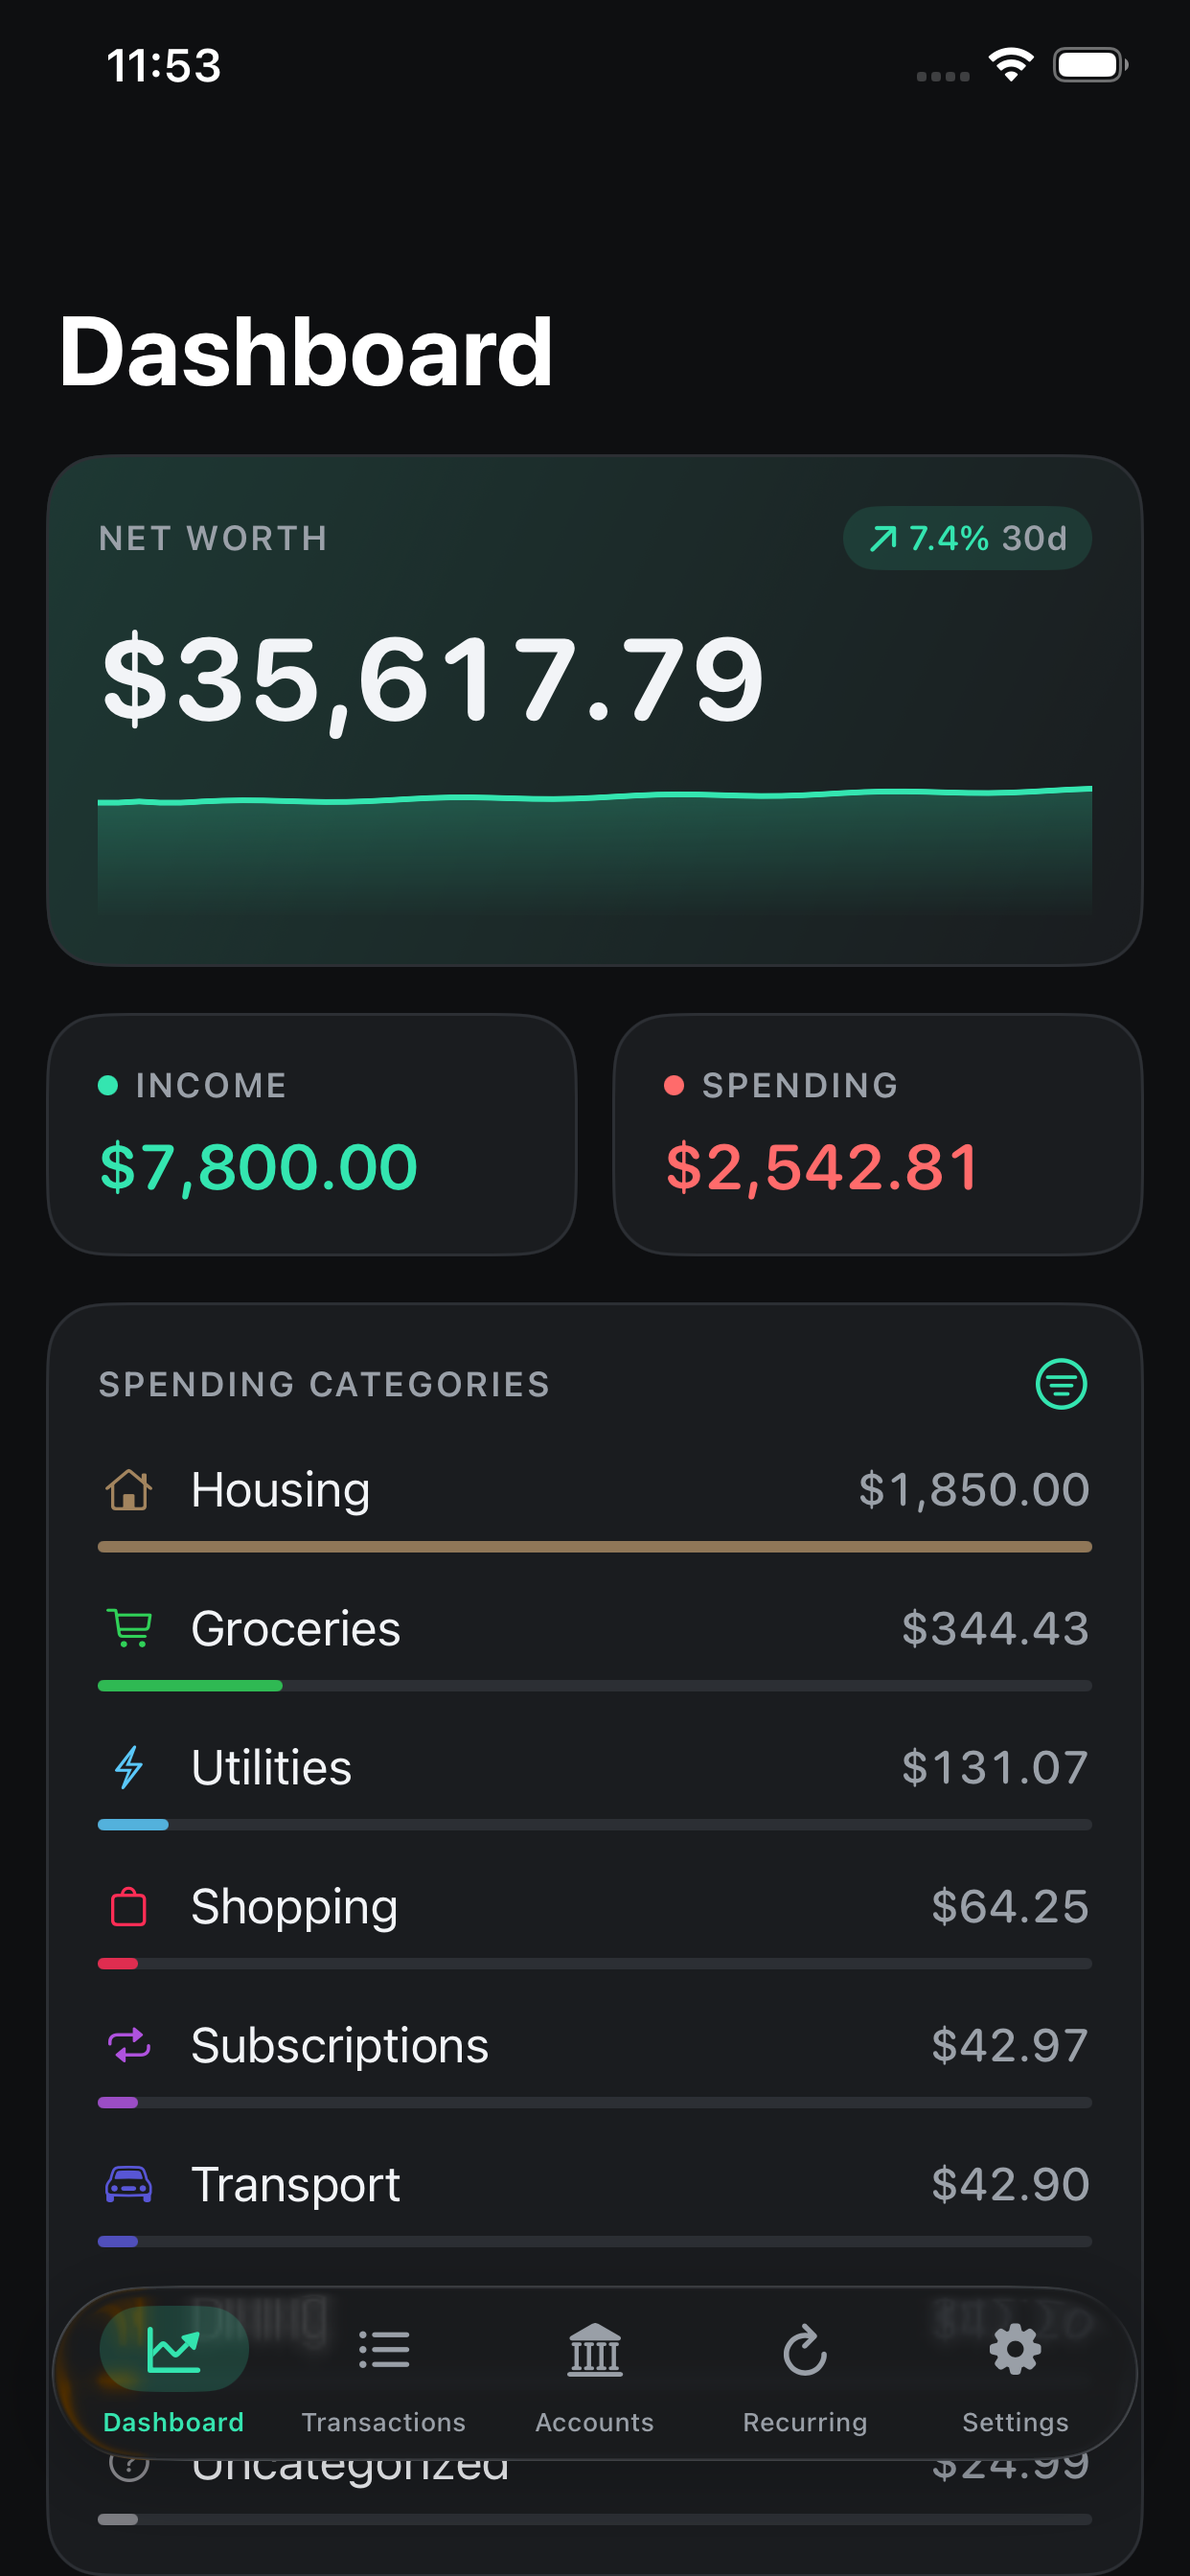
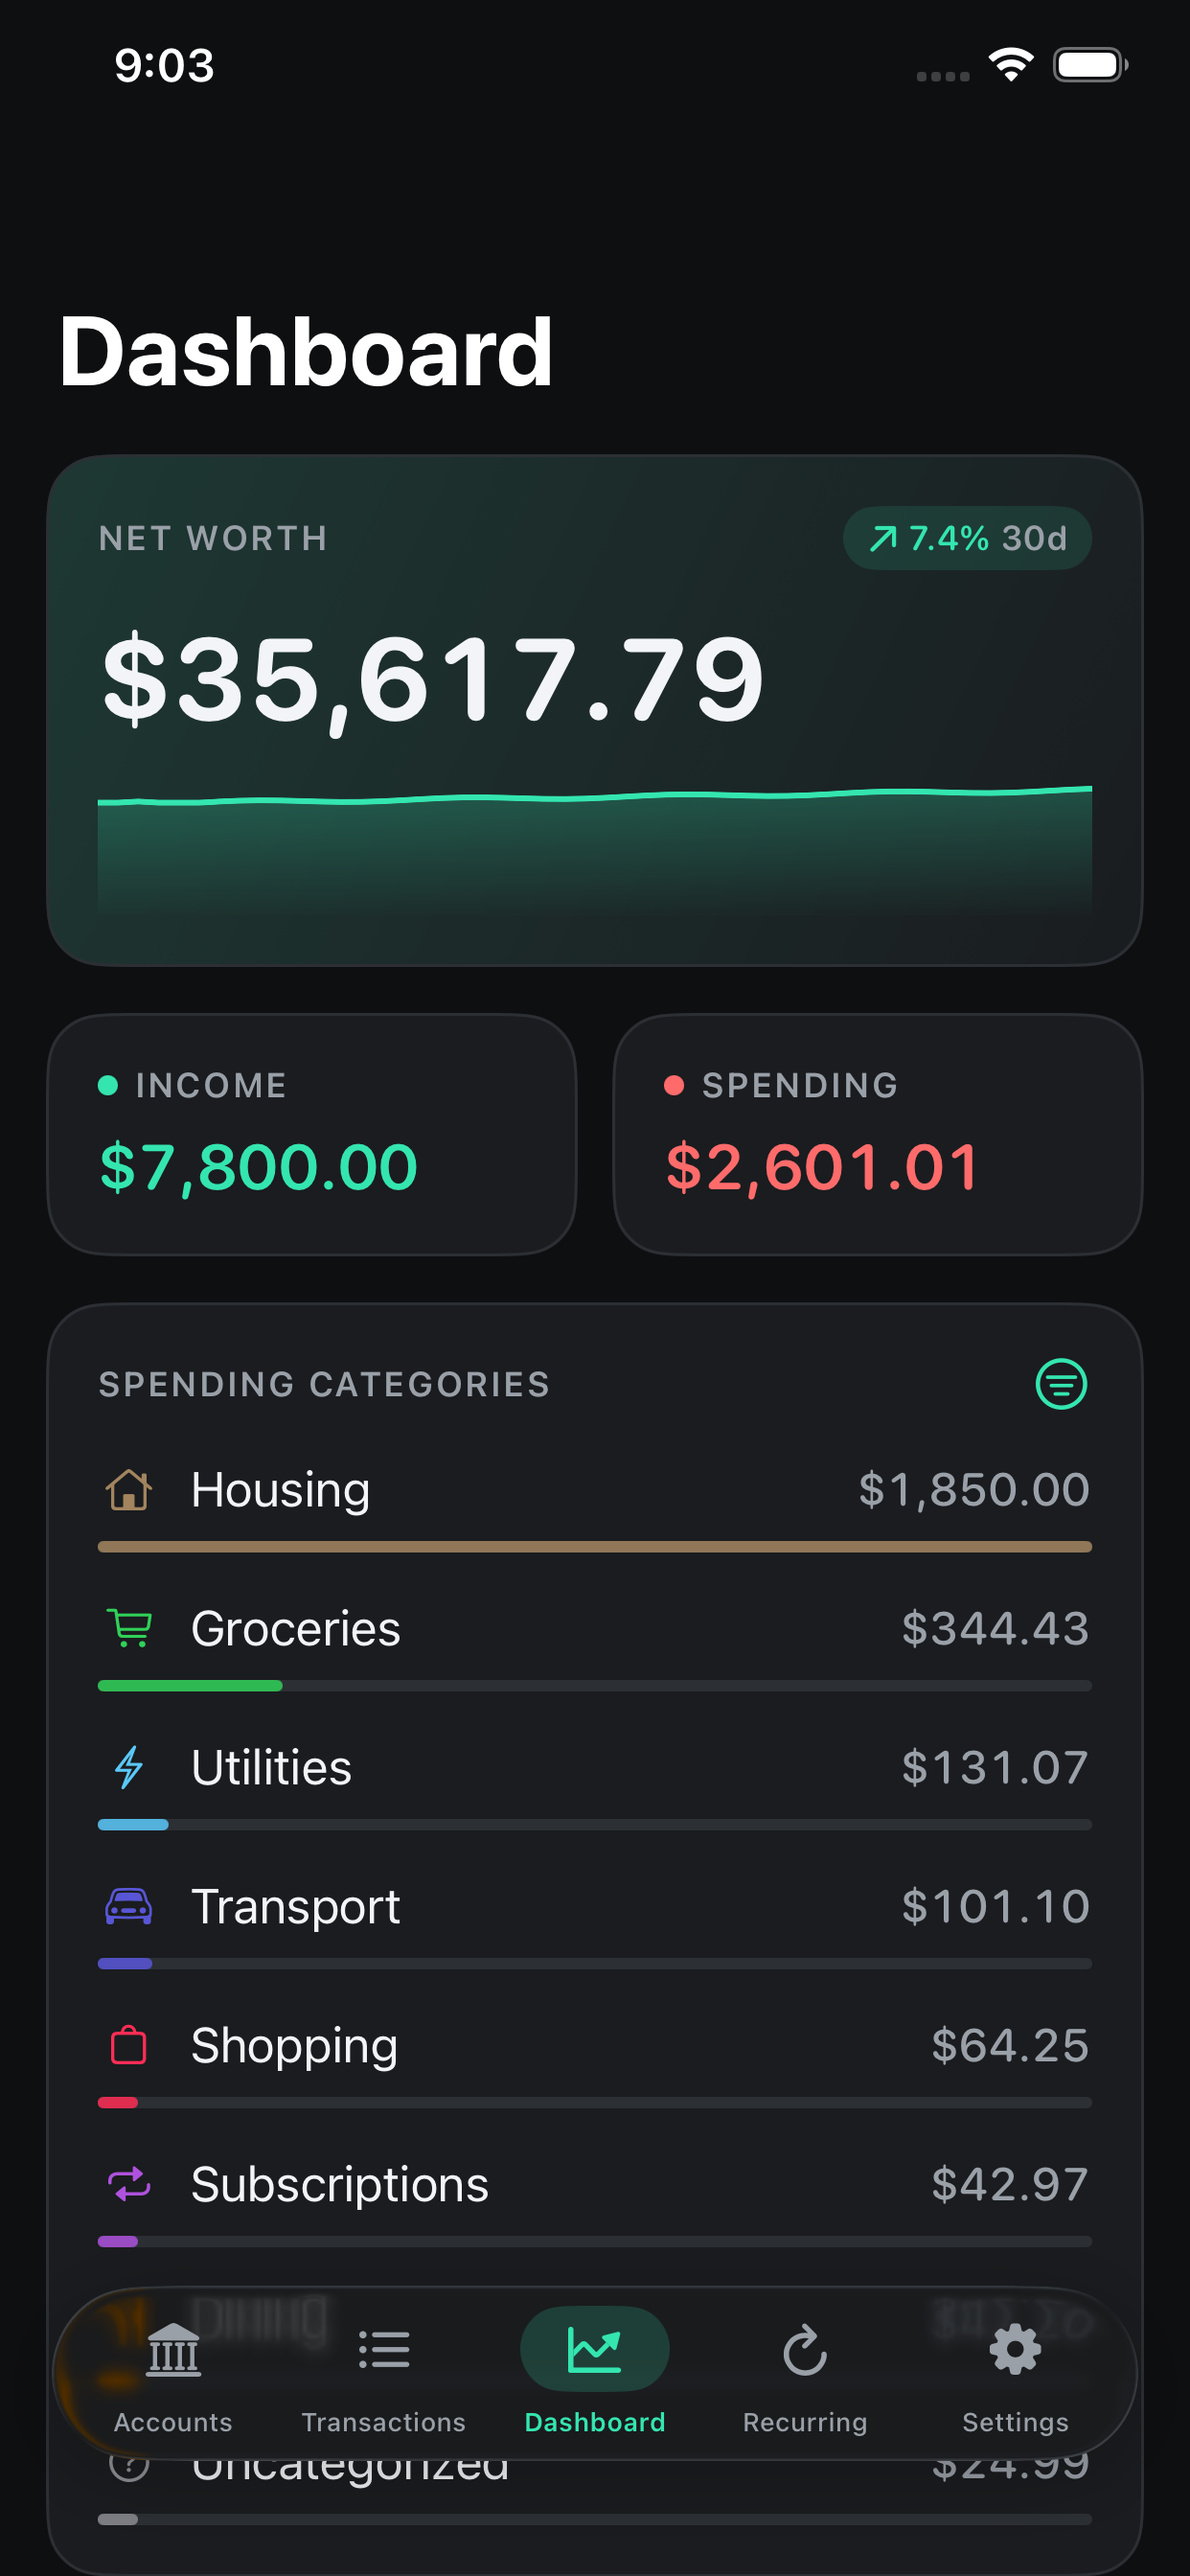
feat(ui): restore Accounts-Transactions-Dashboard page order
Dashboard back to centre slot, still the default landing tab. AppTab
rawValues, pager pages, and tab-bar items move together per the
rawValue == pager position == bar index invariant. App Store
screenshots regenerated for the new tab bar.

UI tests hardened against the hang this reorder surfaced: the pager
builds every page up-front, so off-screen elements still `exists` and
stale tab indices spun `while !isHittable` swipe loops forever.
launch(tab:) now asserts the landing nav bar is on-screen, and the six
unbounded loops are bounded (swipeUpUntilHittable). Also asserts the
note field sits above the keyboard while typing. Full suite: 31/31 in
8m40s.

diff --git a/Tests/FinAppUITests/FinAppUITests.swift b/Tests/FinAppUITests/FinAppUITests.swift
@@ -9,12 +9,35 @@ final class FinAppUITests: XCTestCase {
         continueAfterFailure = false
     }
 
+    /// Page order (== AppTab rawValues): Accounts 0 · Transactions 1 · Dashboard 2 ·
+    /// Recurring 3 · Settings 4. Must move with any app page reorder.
+    private static let tabTitles = ["Accounts", "Transactions", "Dashboard", "Recurring", "Settings"]
+
     private func launch(tab: Int = 0) -> XCUIApplication {
         let app = XCUIApplication()
         app.launchEnvironment["FINAPP_UITEST"] = "1"
         app.launchEnvironment["FINAPP_TAB"] = String(tab)
         app.launch()
+        // The pager builds all pages up-front, so `exists` is true even for
+        // elements on off-screen pages (their frames sit a page-width off to the
+        // side) — assert the landing page's nav bar is actually on screen, or a
+        // stale tab index hangs isHittable loops instead of failing.
+        let bar = app.navigationBars[Self.tabTitles[tab]]
+        XCTAssertTrue(bar.waitForExistence(timeout: 8),
+                      "\(Self.tabTitles[tab]) nav bar missing after launch")
+        let mid = CGPoint(x: bar.frame.midX, y: bar.frame.midY)
+        XCTAssertTrue(app.windows.firstMatch.frame.contains(mid),
+                      "Launch did not land on \(Self.tabTitles[tab]) (tab \(tab)); nav bar off-screen at \(bar.frame)")
         return app
+    }
+
+    /// Scrolls until `element` is hittable, bounded so a wrong page or missing
+    /// element fails fast instead of swiping forever.
+    private func swipeUpUntilHittable(_ app: XCUIApplication, _ element: XCUIElement,
+                                      maxSwipes: Int = 6) {
+        var swipes = 0
+        while !element.isHittable && swipes < maxSwipes { app.swipeUp(); swipes += 1 }
+        XCTAssertTrue(element.isHittable, "\(element) not hittable after \(maxSwipes) swipes")
     }
 
     private func snap(_ app: XCUIApplication, _ name: String) {
@@ -317,6 +340,16 @@ final class FinAppUITests: XCTestCase {
         field.tap()
         let note = "split with roommate"
         field.typeText(note)
+
+        // The pager ignores the keyboard safe area, so the detail view restores
+        // its own avoidance (keyboardAvoiding + KeyboardReveal) — the focused
+        // field must sit fully above the keyboard while typing.
+        let keyboard = app.keyboards.element
+        if keyboard.waitForExistence(timeout: 2) {
+            sleep(1) // let the reveal scroll settle
+            XCTAssertLessThanOrEqual(field.frame.maxY, keyboard.frame.minY,
+                                     "Note field hidden behind keyboard")
+        }
         snap(app, "transaction-note")
 
         app.navigationBars.buttons.element(boundBy: 0).tap() // back to list
@@ -428,7 +461,7 @@ final class FinAppUITests: XCTestCase {
         let chart = app.descendants(matching: .any).matching(identifier: "trendChart").firstMatch
         XCTAssertTrue(chart.waitForExistence(timeout: 8), "Trend chart not found")
         // The trend card is below the fold — scroll it into view before tapping.
-        while !chart.isHittable { app.swipeUp() }
+        swipeUpUntilHittable(app, chart)
         // Tap a bar to open the popup.
         chart.coordinate(withNormalizedOffset: CGVector(dx: 0.5, dy: 0.5)).tap()
 
@@ -535,7 +568,7 @@ final class FinAppUITests: XCTestCase {
         XCTAssertTrue(groceries.waitForExistence(timeout: 8), "Groceries row not found")
 
         let filter = app.buttons["categoryFilterButton"]
-        while !filter.isHittable { app.swipeUp() }
+        swipeUpUntilHittable(app, filter)
         filter.tap()
 
         let toggle = app.buttons["catToggle-Groceries"]
@@ -559,7 +592,7 @@ final class FinAppUITests: XCTestCase {
         let app = launch(tab: 2)
         let filter = app.buttons["categoryFilterButton"]
         XCTAssertTrue(filter.waitForExistence(timeout: 8), "Filter button not found")
-        while !filter.isHittable { app.swipeUp() }
+        swipeUpUntilHittable(app, filter)
         filter.tap()
 
         let subs = app.buttons["catToggle-Subscriptions"]
@@ -588,7 +621,7 @@ final class FinAppUITests: XCTestCase {
                        "Auto should hide categories with no spend this month")
 
         let filter = app.buttons["categoryFilterButton"]
-        while !filter.isHittable { app.swipeUp() }
+        swipeUpUntilHittable(app, filter)
         filter.tap()
 
         let auto = app.buttons["catAutoToggle"]
@@ -613,7 +646,7 @@ final class FinAppUITests: XCTestCase {
         let app = launch(tab: 2)
         let filter = app.buttons["categoryFilterButton"]
         XCTAssertTrue(filter.waitForExistence(timeout: 8), "Filter button not found")
-        while !filter.isHittable { app.swipeUp() }
+        swipeUpUntilHittable(app, filter)
         filter.tap()
 
         let groceries = app.buttons["catToggle-Groceries"]
@@ -641,7 +674,7 @@ final class FinAppUITests: XCTestCase {
         let app = launch(tab: 2)
         let filter = app.buttons["categoryFilterButton"]
         XCTAssertTrue(filter.waitForExistence(timeout: 8), "Filter button not found")
-        while !filter.isHittable { app.swipeUp() }
+        swipeUpUntilHittable(app, filter)
         filter.tap()
 
         let anyToggle = app.buttons.matching(NSPredicate(format: "identifier BEGINSWITH 'catToggle-'"))

diff --git a/Sources/FinApp/App/RootView.swift b/Sources/FinApp/App/RootView.swift
@@ -39,11 +39,11 @@ struct RootView: View {
             ScrollViewReader { proxy in
                 ScrollView(.horizontal) {
                     HStack(spacing: 0) {
-                        // Order: Dashboard · Transactions · Accounts · Recurring · Settings.
+                        // Order: Accounts · Transactions · Dashboard · Recurring · Settings.
                         // (Budgets hidden for now, kept in the codebase.)
-                        pageView(DashboardView(), AppTab.dashboard.rawValue)
-                        pageView(TransactionsView(), AppTab.transactions.rawValue)
                         pageView(AccountsView(), AppTab.accounts.rawValue)
+                        pageView(TransactionsView(), AppTab.transactions.rawValue)
+                        pageView(DashboardView(), AppTab.dashboard.rawValue)
                         pageView(RecurringView(), AppTab.recurring.rawValue)
                         pageView(SettingsView(), AppTab.settings.rawValue)
                     }
@@ -175,11 +175,11 @@ private struct CustomTabBar: View {
     @Environment(AppRouter.self) private var router
     @Namespace private var pill
 
-    // Order matches the pager: Dashboard · Transactions · Accounts · Recurring · Settings.
+    // Order matches the pager: Accounts · Transactions · Dashboard · Recurring · Settings.
     private static let items: [(title: String, icon: String)] = [
-        ("Dashboard", "chart.line.uptrend.xyaxis"),
-        ("Transactions", "list.bullet"),
         ("Accounts", "building.columns.fill"),
+        ("Transactions", "list.bullet"),
+        ("Dashboard", "chart.line.uptrend.xyaxis"),
         ("Recurring", "arrow.clockwise"),
         ("Settings", "gearshape.fill"),
     ]

diff --git a/Sources/FinApp/App/AppRouter.swift b/Sources/FinApp/App/AppRouter.swift
@@ -1,11 +1,11 @@
 import Foundation
 import Observation
 
-/// Bottom-bar pages in display order. Dashboard is leftmost and the default.
+/// Bottom-bar pages in display order. Dashboard sits centre and is the default.
 enum AppTab: Int, CaseIterable {
-    case dashboard = 0
+    case accounts = 0
     case transactions = 1
-    case accounts = 2
+    case dashboard = 2
     case recurring = 3
     case settings = 4
 }

diff --git a/CLAUDE.md b/CLAUDE.md
@@ -60,9 +60,13 @@ pages built up-front) with a **custom bottom bar**. It deliberately does **not**
 `UINavigationBar` layout assertion (SIGABRT). `AppRouter` (`@Observable`, in the environment)
 holds `selectedTab` and `txnFilter`; Dashboard tiles call `router.showTransactions(_:)`,
 which sets `txnFilter` then `selectedTab = AppTab.transactions.rawValue` to deep-link into a
-pre-filtered Transactions list. Page order: Dashboard · Transactions · Accounts · Recurring ·
-Settings (Dashboard leftmost + default); the `AppTab` rawValue == physical pager position ==
-tab-bar item index, so all three must move together when reordering.
+pre-filtered Transactions list. Page order: Accounts · Transactions · Dashboard · Recurring ·
+Settings (Dashboard centre + default); the `AppTab` rawValue == physical pager position ==
+tab-bar item index == the `launch(tab:)` indices in `FinAppUITests.swift`, so all **four**
+must move together when reordering. The pager builds every page up-front, so XCUITest
+`exists` is true for elements on off-screen pages — a wrong tab index hangs
+`while !isHittable` loops instead of failing (the `launch` helper asserts the landing
+nav bar to catch this).
 
 **SwiftData layer.** `Models/AppSchema.swift` lists every `@Model` type in one place —
 **update `AppSchema.models` when adding a model.** Migrations are lightweight only: a new
